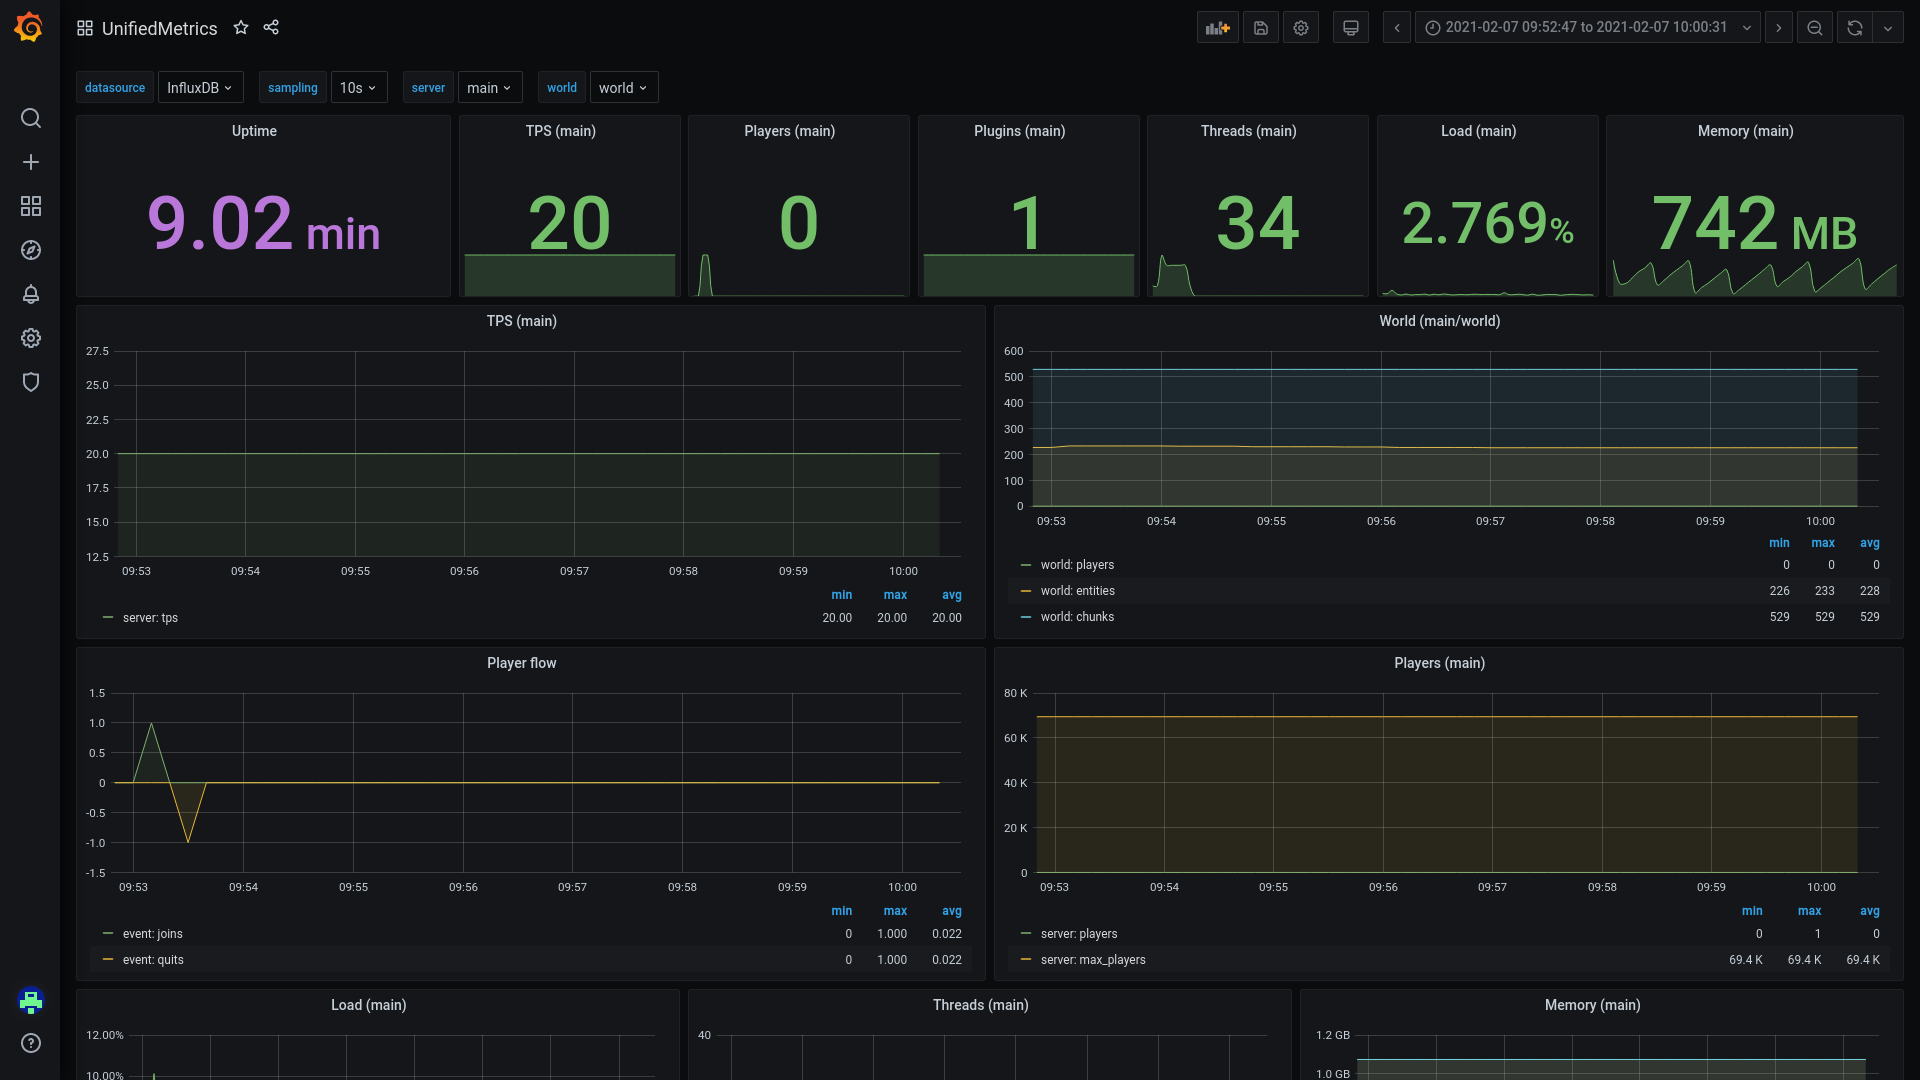
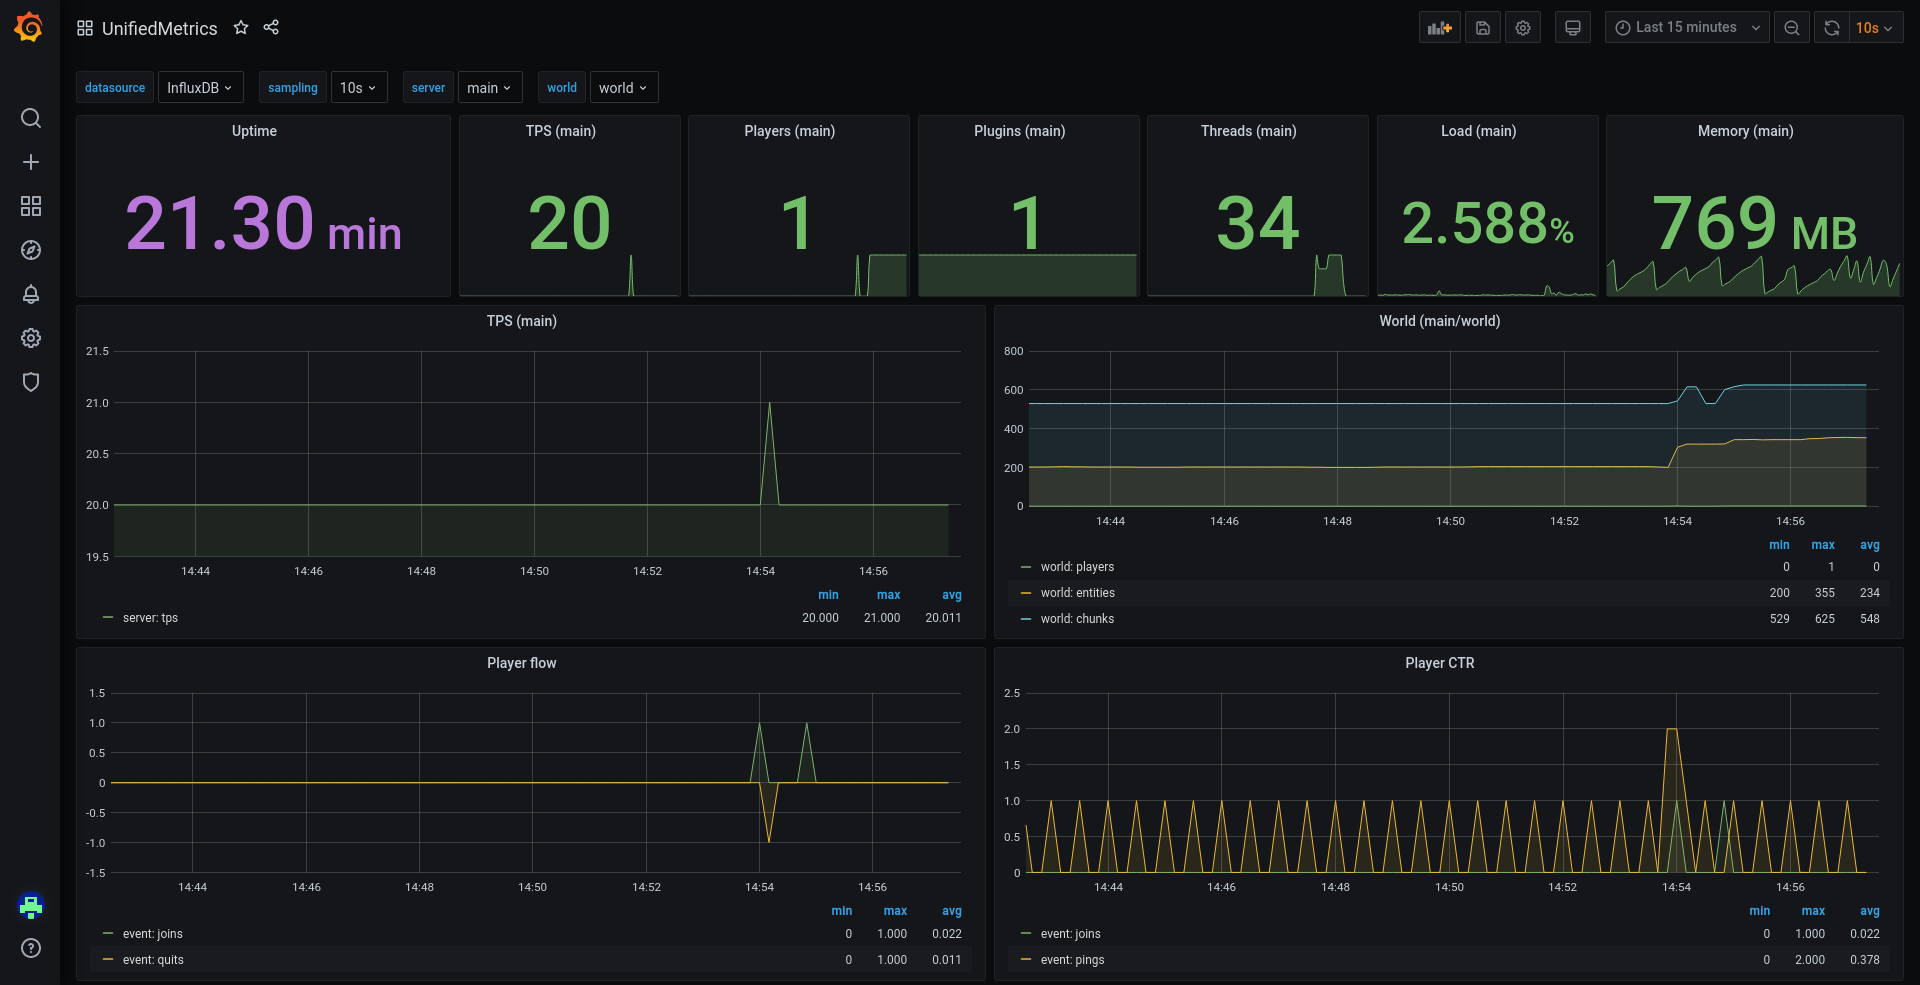
README: Added guide for grafana, updated screenshot

diff --git a/README.md b/README.md
@@ -22,7 +22,15 @@ This project is licensed under [GNU AGPLv3](LICENSE)
 - More features upcoming (Logging to ElasticSearch, etc)
 
 ## API
-Coming soon
+Add `:unifiedmetrics-api` as a dependency (compileOnly/provided).
+
+```kotlin
+import dev.cubxity.plugins.metrics.api.UnifiedMetricsProvider
+
+/* ... */
+
+val api = UnifiedMetricsProvider.get()
+```
 
 ## Installation
 
@@ -53,4 +61,8 @@ interval = 10 # Interval in seconds
 
 ## Data visualization and analysis
 We recommend using [Grafana](https://grafana.com/) as it provides highly customizable diagrams.
-Grafana provides out-of-box support for InfluxDB. A guide is coming soon.
+Grafana provides out-of-box support for InfluxDB.
+
+- Add InfluxDB datasource to Grafana
+- Import our [dashboard](https://grafana.com/grafana/dashboards/13860)
+- Configure the dashboard and set up alerts *(optional)*
